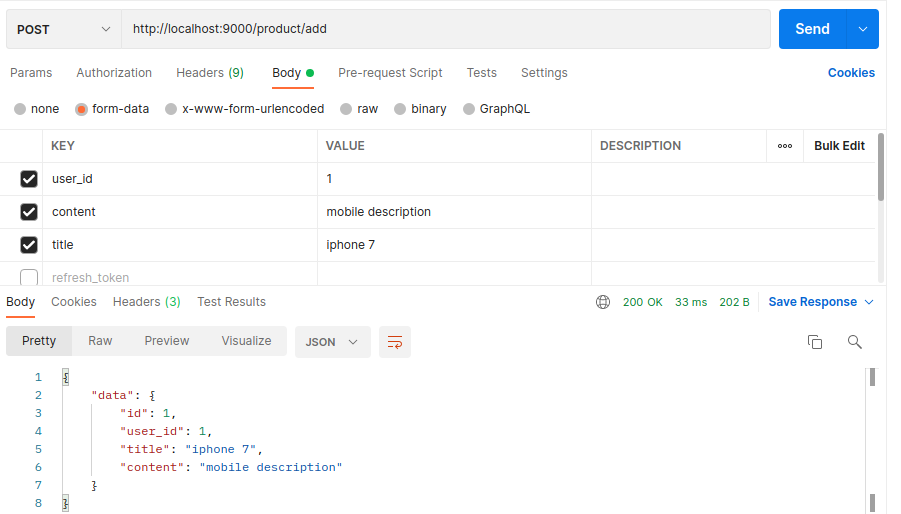
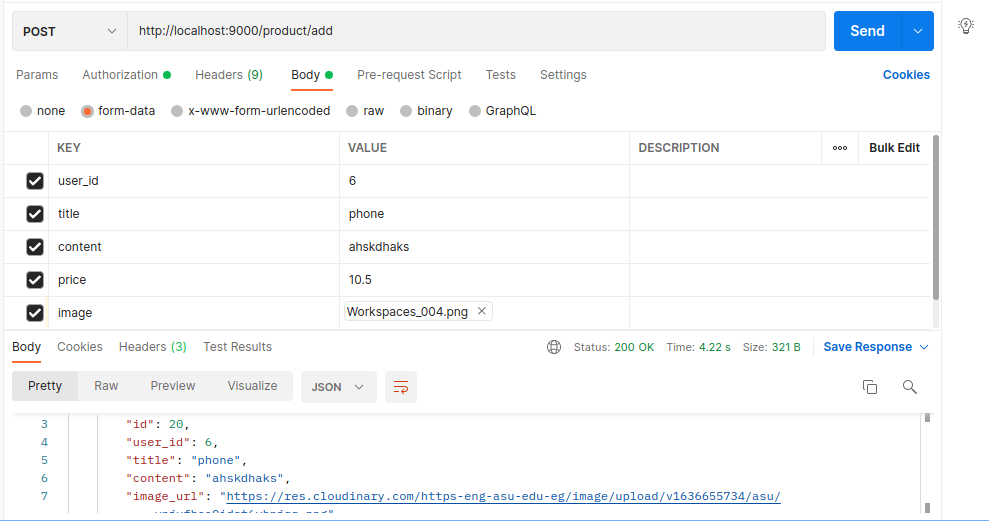
Fixing problem in storing product image

diff --git a/controllers/product.go b/controllers/product.go
@@ -3,6 +3,7 @@ package controllers
 import (
 	"context"
 	"fmt"
+	"io/ioutil"
 	"log"
 	"net/http"
 	"os"
@@ -14,6 +15,9 @@ import (
 	"github.com/distributed-marketplace-system/util"
 	"github.com/gin-gonic/gin"
 )
+
+//ProductController ...
+type ProductController struct{}
 
 func UploadProductImage(img_path string) (url string, err error) {
 
@@ -28,12 +32,9 @@ func UploadProductImage(img_path string) (url string, err error) {
 		return "", err
 	}
 
-	//log.Println(uploadResult.SecureURL)
+	log.Println(uploadResult.SecureURL)
 	return uploadResult.SecureURL, nil
 }
-
-//ProductController ...
-type ProductController struct{}
 
 func (ctrl ProductController) AddProduct(c *gin.Context) {
 
@@ -59,17 +60,47 @@ func (ctrl ProductController) AddProduct(c *gin.Context) {
 		return
 	}
 
+	// Extract image from the form
+	r := c.Request
+	r.ParseMultipartForm(10 << 20)
+	file, _, err := r.FormFile("image")
+	if err != nil {
+		fmt.Println("Error Retrieving the File")
+		fmt.Println(err)
+		return
+	}
+	defer file.Close()
+
+	// Store image in the server side
+	tempFile, err := ioutil.TempFile("res", "upload-*.png")
+	if err != nil {
+		fmt.Println(err)
+	}
+	defer tempFile.Close()
+
+	fileBytes, err := ioutil.ReadAll(file)
+	if err != nil {
+		fmt.Println(err)
+	}
+	// write this byte array to our temporary file
+	tempFile.Write(fileBytes)
+
 	// upload the image to cloudinary cloud
-	img, err := UploadProductImage(input.ImagePath)
+	img_url, err := UploadProductImage(tempFile.Name())
 
 	if err != nil {
 		c.JSON(http.StatusBadRequest, gin.H{"error": err.Error()})
 		return
 	}
 
-	// Add new product
-	product := models.Product{UserID: input.UserID, Title: input.Title, Content: input.Content, Price: input.Price, ImageURL: img}
+	// remove the image from the server side after uploading it
+	e := os.Remove(tempFile.Name())
+	if e != nil {
+		log.Fatal(e)
+	}
 
+	// Store the new product in the database
+	product := models.Product{UserID: input.UserID, Title: input.Title, Content: input.Content, Price: input.Price, ImageURL: img_url}
 	db.DB.Create(&product)
 
 	c.JSON(http.StatusOK, gin.H{"data": product})

diff --git a/main.go b/main.go
@@ -8,6 +8,7 @@ import (
 
 	"github.com/distributed-marketplace-system/controllers"
 	"github.com/distributed-marketplace-system/db"
+
 	"github.com/distributed-marketplace-system/util"
 	"github.com/gin-gonic/gin"
 	"github.com/joho/godotenv"
@@ -19,26 +20,32 @@ func routes() {
 	// Load the static files
 	router.LoadHTMLGlob("./public/html/*")
 	router.Static("/public", "./public")
-	// User APIs
-	user := new(controllers.UserController)
 
-	router.GET("/user/get_all", user.GetAll)
-	router.GET("/user/get_one/:id", user.GetOne)
-	router.POST("/user/register", user.RegisterUser)
-	router.POST("/user/login", user.LoginUser)
+	// User APIs
+	user_r := router.Group("/user")
+	{
+		user := new(controllers.UserController)
+
+		user_r.GET("/get_all", user.GetAll)
+		user_r.GET("/get_one/:id", user.GetOne)
+		user_r.POST("/register", user.RegisterUser)
+		user_r.POST("/login", user.LoginUser)
+	}
 
 	// Product APIs
-	product := new(controllers.ProductController)
+	product_r := router.Group("/product")
+	{
+		product := new(controllers.ProductController)
 
-	router.POST("/product/add", util.AuthMiddleware(), product.AddProduct)
-	router.DELETE("/product/delete_one/:id", util.AuthMiddleware(), product.DeleteOne)
-	router.GET("/product/get_all", product.GetAll)
-	router.GET("/product/get_one/:id", product.GetOne)
-
-	router.GET("/test", func(c *gin.Context) {
+		product_r.POST("/add", util.AuthMiddleware(), product.AddProduct)
+		product_r.DELETE("/delete_one/:id", util.AuthMiddleware(), product.DeleteOne)
+		product_r.GET("/get_all", product.GetAll)
+		product_r.GET("/get_one/:id", product.GetOne)
+	}
+	router.GET("/home", func(c *gin.Context) {
 		c.HTML(http.StatusOK, "index.html", gin.H{
-			"ginBoilerplateVersion": "v0.03",
-			"goVersion":             runtime.Version(),
+			"Version":   "v0.03",
+			"goVersion": runtime.Version(),
 		})
 	})
 
@@ -56,7 +63,6 @@ func routes() {
 func main() {
 	// Load the .env file
 	err := godotenv.Load(".env")
-
 	if err != nil {
 		log.Fatal("error: failed to load the env file")
 	}

diff --git a/models/product.go b/models/product.go
@@ -10,9 +10,8 @@ type Product struct {
 }
 
 type AddProductInput struct {
-	UserID    int64   `form:"user_id" json:"user_id" binding:"required"`
-	Title     string  `form:"title" json:"title" binding:"required"`
-	ImagePath string  `form:"image_path" json:"image_path" binding:"required"`
-	Content   string  `form:"content" json:"content" binding:"required"`
-	Price     float64 `form:"price" json:"price"`
+	UserID  int64   `form:"user_id" json:"user_id" binding:"required"`
+	Title   string  `form:"title" json:"title" binding:"required"`
+	Content string  `form:"content" json:"content" binding:"required"`
+	Price   float64 `form:"price" json:"price"  binding:"required"`
 }
